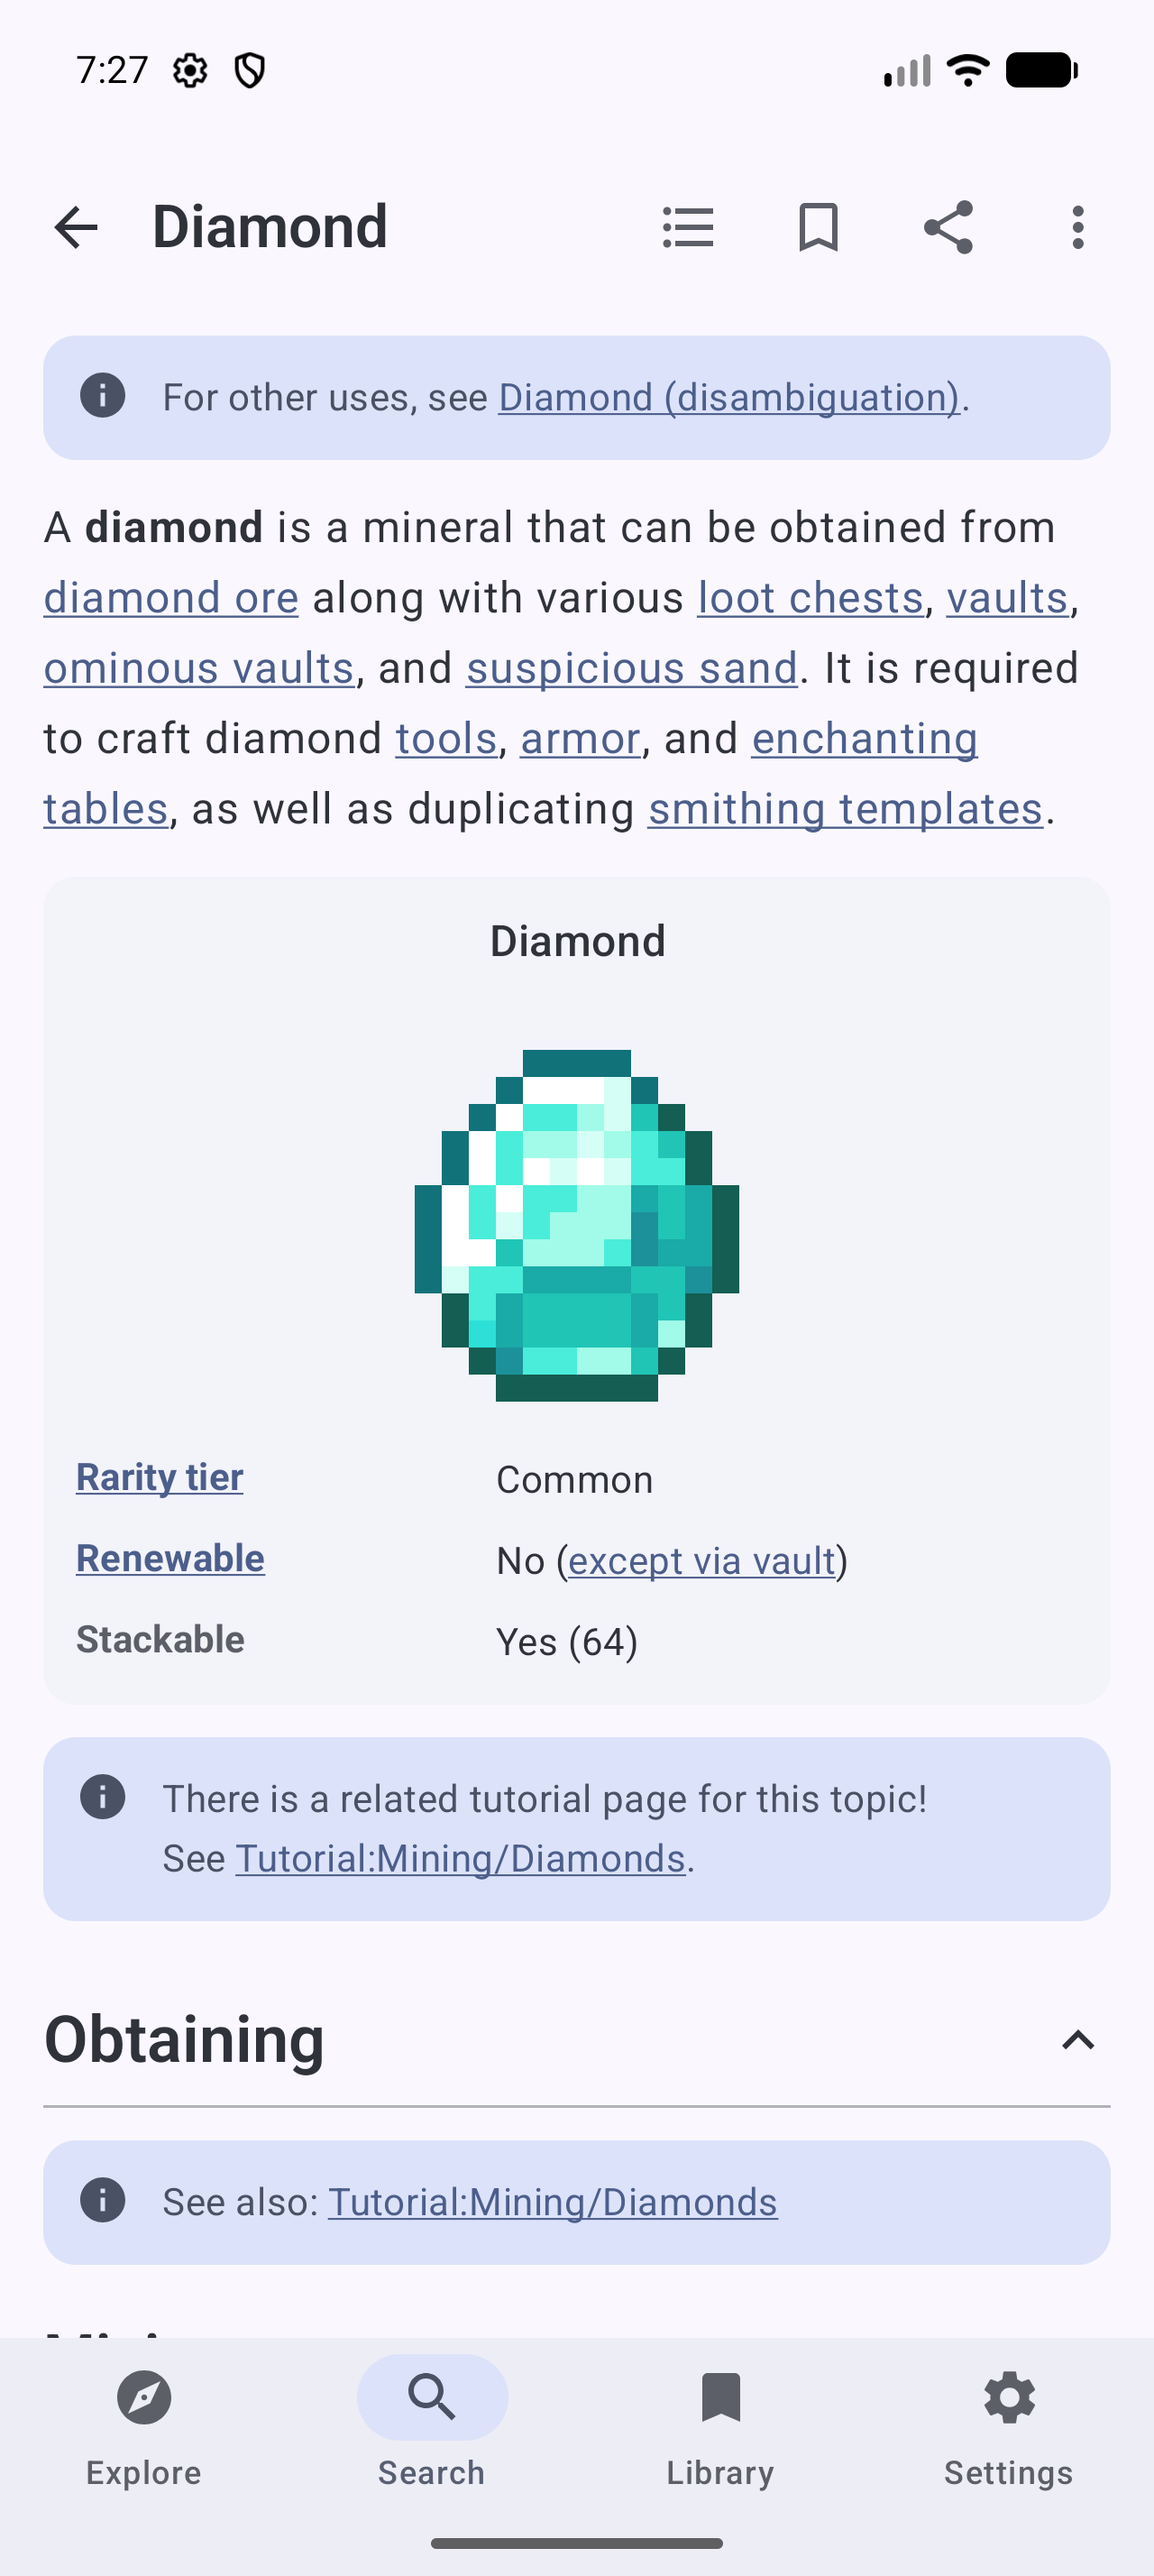
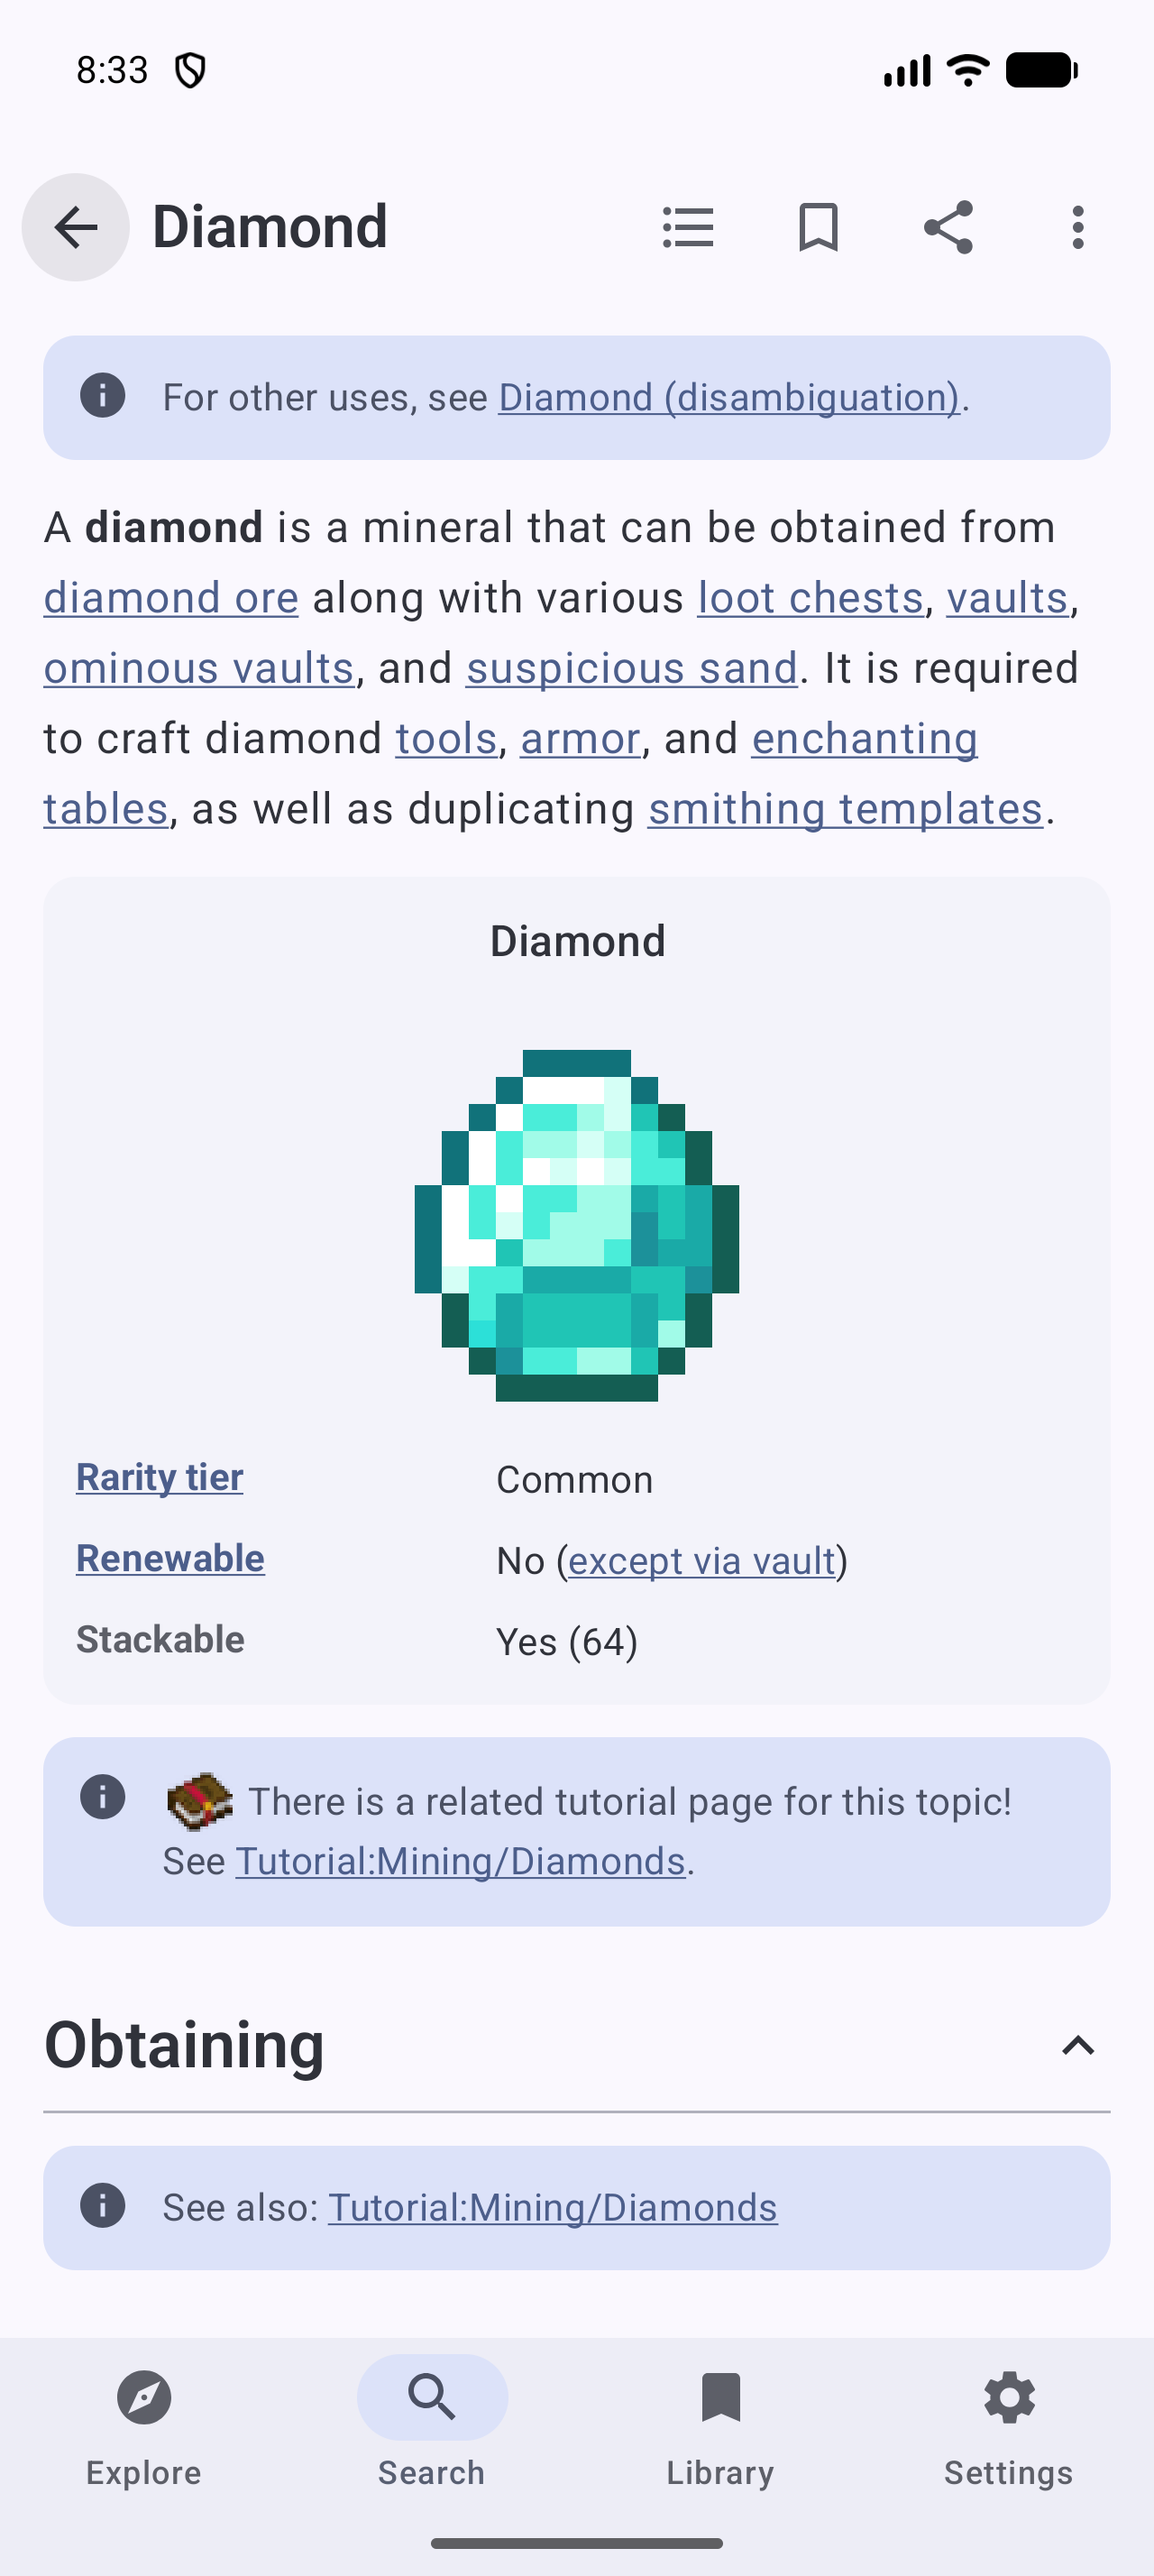
docs: update session 8 notes and screenshots for folded sections and inline images

diff --git a/docs/PROGRESS.md b/docs/PROGRESS.md
@@ -103,7 +103,7 @@ What the parser does, for Sessions 5 and 8:
 ### Deviations
 - **HTML fixtures live in `core/article-parser/src/test/resources/fixtures`, not `:core:testing`.** The parser is a JVM module and cannot depend on the Android library `:core:testing`. They are `parse.text` from `action=parse&mobileformat=1` for Diamond, Creeper, Crafting Table and `Tutorial:Mining`, captured 2026-10-08 (1.2 MB total). They are untouched except that the Navigation footer (200 to 340 KB of navboxes each) is cut down to the first two navbox rows, which keeps the stripping rule under test.
 - **Crafting grids inside table cells become text, not `CraftingGrid` blocks.** All 36 crafting widgets on the four real pages sit in recipe table cells, and `TableCell` holds only `RichText`. A cell shows `Oak Planks → Crafting Table` (distinct ingredients, then the output with `×count` when above 1). `CraftingGrid` is produced only for widgets outside tables. See open TODOs.
-- **Inline images are dropped** (`RichText` has no image span). Inline sprites (`.sprite-file`) disappear but their `.sprite-text` label stays. Images inside `.iconbar` contribute their alt text, so a health bar reads `20❤ × 10`.
+- **Inline images are dropped** (`RichText` has no image span). *Resolved in Session 8: `RichSpan.image`.* Inline sprites (`.sprite-file`) disappear but their `.sprite-text` label stays. Images inside `.iconbar` contribute their alt text, so a health bar reads `20❤ × 10`.
 - **Infobox:** the small inventory sprite (`.infobox-invimages`) is left out of `images`. When the images sit in tabs (Creeper: Normal, Charged) the tab title is the image caption.
 - **Tabbers render every tab, one after another, each with a bold title paragraph.** On Creeper the drop tables appear four times (Decimal, Fraction, Distribution, Expectation). Showing only the first tab would be a one-line change in `TextBlocks.tab`.
 - Footnote markers stay as superscript text (`[1]`) without a link; reference lists parse as ordinary ordered lists without the `↑` back-links.
@@ -233,7 +233,7 @@ What each exposes (for Sessions 8-9):
 - Unchanged: article stub until Session 8, recipe tables lose their grids, tabbers render every tab, autocomplete cached 3 days.
 
 ## Session 8 notes
-Verified: `spotlessCheck` (own invocation), then `detekt testDebugUnitTest assembleDebug :app:checkMainMetroHiddenDependencies :app:assembleRelease` pass. 88 new tests (463 in total): 85 in `:feature:article`, 2 in `:core:article-parser`, 1 in `:app`. On the Pixel_10_Pro emulator (API 37) against the live wiki: Diamond, Creeper, Crafting Table, Mob and a version page render; internal links navigate (a redirect such as `hostile mob` opens its canonical page, `Mob`); anchors scroll from the contents sheet; sections fold; the bookmark toggle writes the bookmark, history and cache rows (read back from the app's Room file). On the Pixel_Tablet AVD an article opens beside the Explore list. Screenshots are in `docs/pr-assets/session-8`.
+Verified: `spotlessCheck` (own invocation), then `detekt testDebugUnitTest assembleDebug :app:checkMainMetroHiddenDependencies :app:assembleRelease` pass. 106 new tests (481 in total): 91 in `:feature:article`, 12 in `:core:article-parser`, 2 in `:core:model`, 1 in `:app`. On the Pixel_10_Pro emulator (API 37) against the live wiki: Diamond, Creeper, Crafting Table, Mob and a version page render; internal links navigate (a redirect such as `hostile mob` opens its canonical page, `Mob`); anchors scroll from the contents sheet; sections fold; the bookmark toggle writes the bookmark, history and cache rows (read back from the app's Room file). On the Pixel_Tablet AVD an article opens beside the Explore list. Screenshots are in `docs/pr-assets/session-8`.
 
 Module added: `:feature:article` (`wikidroid.android.feature`, plus `androidx.browser` for Custom Tabs). `:app` depends on it directly.
 
@@ -246,14 +246,15 @@ What it exposes (for Sessions 9-10):
 ### Deviations
 - **`TableCell` gained `crafting: ContentBlock.CraftingGrid?`** (`:core:model`) and `TableParser` fills it when a cell holds one crafting widget and nothing else. `content` keeps the one-line text summary, so nothing that reads text changed. A cell with a recipe plus other text, and other widgets (Smithing Table, Furnace), still show the summary or the unsupported chip. This closes the Session 4 open TODO.
 - **Tables are drawn by a custom grid `Layout`, not rows of cells.** Rows of cells cannot span rows: the first version drew a `rowspan` cell in its first row only and left a blank column on Diamond's loot table. Columns are equal width, at least 130dp (176dp when a cell holds a recipe, so a compact grid fits), inside a horizontal scroll. Cells are measured with intrinsic heights and then stretched to the squares they cover.
-- **Sections start expanded.** Only the `h2` of a section folds; the lead never does. Fold state and the contents sheet are in `ArticleState`, so they survive rotation but not leaving the tab (see Session 7's open TODO).
+- **Sections start folded.** Every section with a heading is folded when an article first loads, so a page opens as an outline; the lead never folds. Fold state and the contents sheet are in `ArticleState`. A refreshed copy keeps the reader's choices for the sections they already had, and folds only sections that are new. Going to an anchor (contents sheet, link, or the `ArticleKey` anchor) unfolds just that section.
 - **A tapped anchor is a state field (`pendingAnchor`), not an effect.** The ViewModel unfolds the section and sets it; the screen scrolls and sends `AnchorHandled`. This keeps scrolling testable without a side-effect channel. An anchor from the `ArticleKey` is applied once, on the first emission, so a refreshed copy does not drag the reader back.
 - **Anchors match leniently** (`Spawn_rates`, `Spawn rates`, percent-encoded, case-insensitive) after an exact match fails. A link to the page you are already on, with an anchor, scrolls instead of pushing a second copy.
 - **Text size scales only the article body**, by multiplying `LocalDensity.fontScale` around the content. The top bar and sheets keep the system size.
 - **Only http and https links are opened.** `javascript:`, `intent:`, `file:` and other schemes in article links are dropped. `Share` and `Open on wiki` appear only when the article has a page URL (the repository always sets one).
 - **Reading width is capped at 720dp** and centred, so a full-width tablet window keeps readable lines.
 - **Tabbers still render every tab in turn** (Creeper's drop table appears four times). Nothing is lost, but a tab picker needs a new block type; left for later.
-- Unchanged: inline images are still dropped by the parser, so cells that held only an icon are blank (Crafting Table's achievements table).
+- **Inline images are in `RichText`** (`:core:model`, `:core:article-parser`). `RichSpan` gained `image: InlineImage?` (url, size, pixelated); an image span's `text` is its alt text, so `plainText` is unchanged. `RichText.isBlank` now counts an image as content and `hasText` says whether there is readable text. `sprite-file` is no longer treated as hidden, so item and structure icons appear next to their names in tables, lists, infobox rows and message boxes, as on the wiki. Left out on purpose: the wiki's own hatnote icon (the app draws one), and the health/hunger bars, which keep their emoji text. A paragraph that holds only a block-sized picture still becomes an `Image` block.
+- **Inline images are drawn with Compose inline content, sized in `sp`** (the image's own pixels as `sp`, at most 96, plus a 4sp gap), so an icon grows with the text size setting and sits in the line like a letter. A link around an icon covers it.
 
 ### Workarounds
 - **Metro `@Assisted` takes no identifier argument.** Parameters are matched by name, so `@Assisted("title")` fails with "Too many arguments". Use plain `@Assisted` and distinct parameter names.

diff --git a/CLAUDE.md b/CLAUDE.md
@@ -76,3 +76,4 @@ Approved exceptions: Detekt (2.0.0-alpha.6), and AGP, which stays on the latest 
 - Article tables are drawn by a custom grid `Layout` (`TableBlock`) because `rowspan` needs it. `TableCell.crafting` carries a recipe grid when a cell holds only a crafting widget.
 - Don't force a box size and then apply `aspectRatio` inside it (the image overflows the box); fix the width and let the ratio set the height.
 - Compose tests that tap a link tap its left edge, not the node's centre (`click(Offset(8f, centerY))`).
+- Inline images are `RichSpan.image`. `RichText.isBlank` counts them as content; use `hasText` to ask whether there is readable text (a paragraph with only a block-sized picture is an `Image` block).
